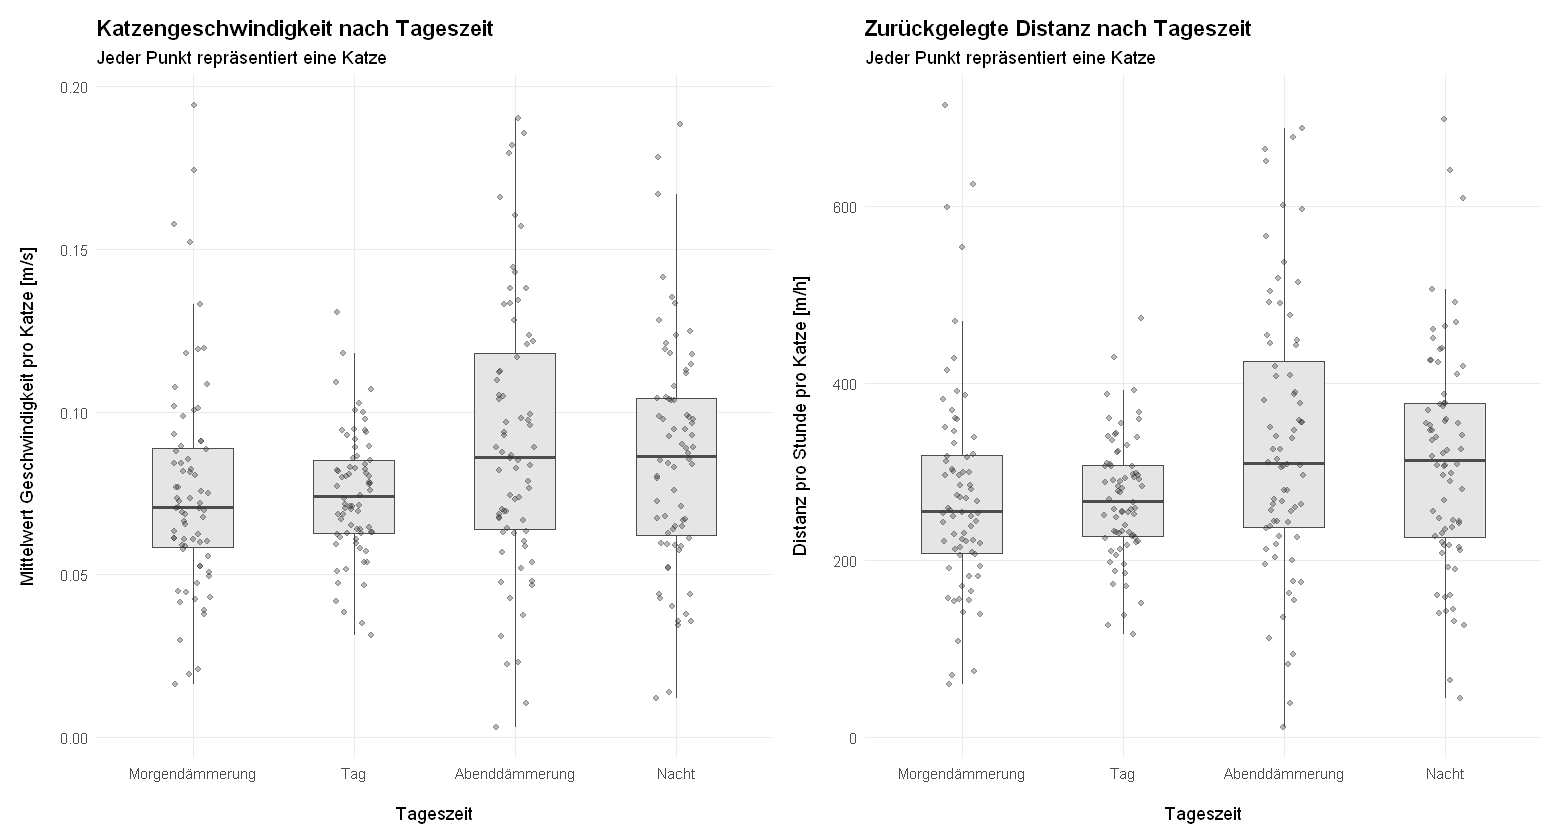
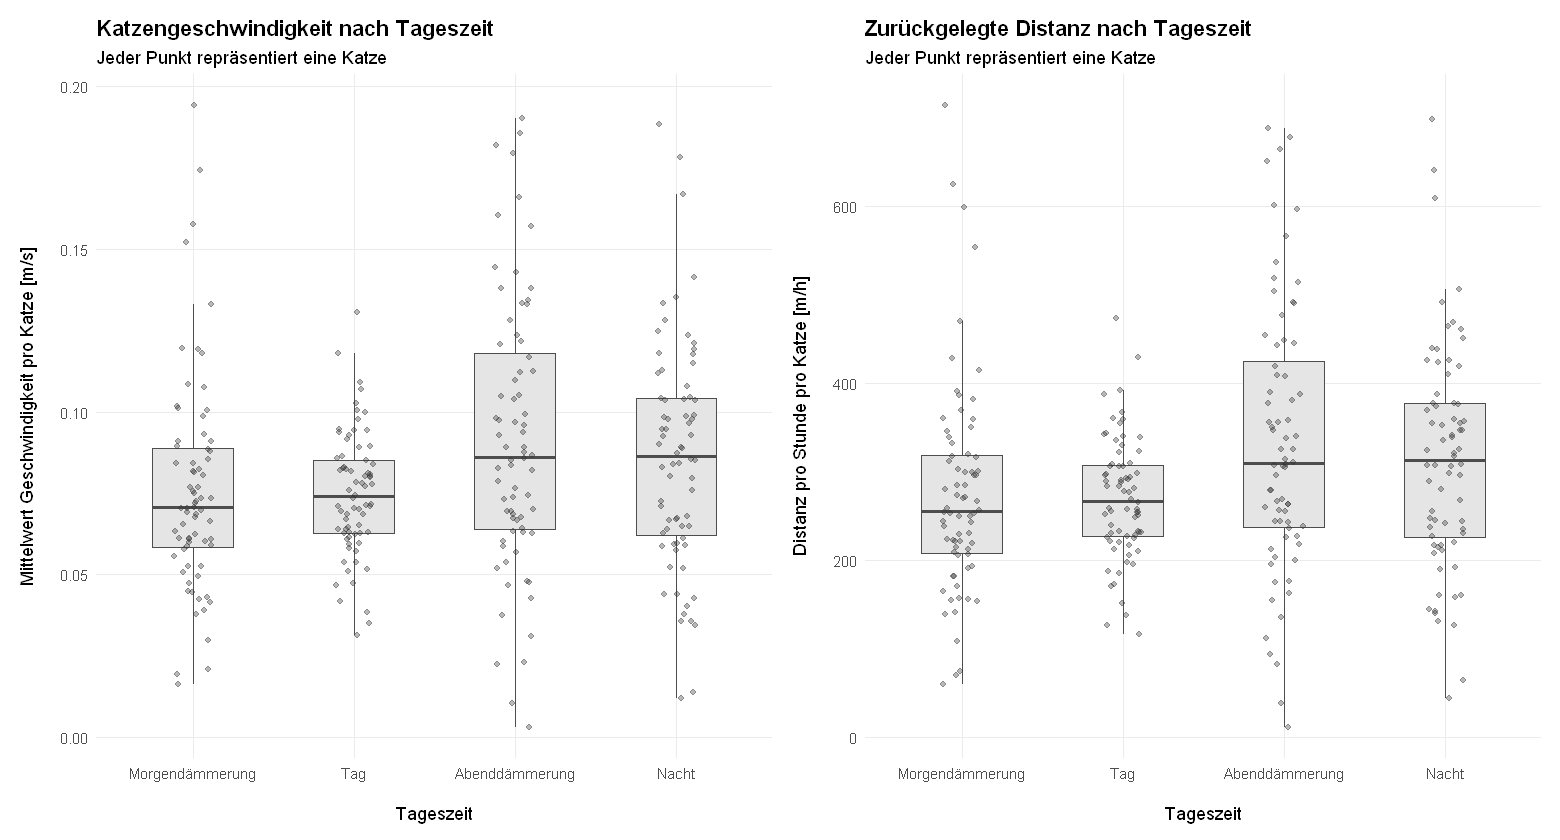
update

diff --git a/Semesterproject_final.html b/Semesterproject_final.html
@@ -1136,8 +1136,8 @@ pre > code.sourceCode > span > a:first-child::before { text-decoration: underlin
 <h1 data-number="4"><span class="header-section-number">4</span> Resultate</h1>
 <section id="aktivitätsmuster-1" class="level2" data-number="4.1">
 <h2 data-number="4.1" class="anchored" data-anchor-id="aktivitätsmuster-1"><span class="header-section-number">4.1</span> Aktivitätsmuster</h2>
-<p>Die Analyse der Geschwindigkeit und zurückgelegten Distanz als Proxy für die Aktivität zeigt Unterschiede zwischen den Tageszeiten. Auf Basis der katzenspezifischen Mittelwerte waren die untersuchten Katzen während der Nacht und der Abenddämmerung am aktivsten (Abb. 1). Die höchsten mittleren Geschwindigkeiten waren nachts (0.087 m/s) und während der Abenddämmerung (0.086 m/s), während sie tagsüber bei 0.074 m/s und in der Morgendämmerung bei 0.071 m/s lagen. Ein vergleichbares Muster zeigt sich bei der zurückgelegten Distanz pro Stunde (Nacht: 313 m/h, Abenddämmerung: 310 m/h, Tag: 267 m/h, Morgendämmerung: 255 m/h). Gleichzeitig zeigt sich eine hohe individuelle Variabilität zwischen den Katzen (siehe Abb. 1).</p>
-<div id="c2e35cae-9110-4efb-81cb-f71bff7dcaa2" class="cell" data-execution_count="24">
+<p>Die Analyse der Geschwindigkeit und zurückgelegten Distanz als Proxy für die Aktivität zeigt Unterschiede zwischen den Tageszeiten. Auf Basis der katzenspezifischen Mittelwerte waren die untersuchten Katzen während der Nacht und der Abenddämmerung am aktivsten (siehe <a href="#fig-plot1" class="quarto-xref">Abbildung&nbsp;1</a>). Die höchsten mittleren Geschwindigkeiten waren nachts (0.087 m/s) und während der Abenddämmerung (0.086 m/s), während sie tagsüber bei 0.074 m/s und in der Morgendämmerung bei 0.071 m/s lagen. Ein vergleichbares Muster zeigt sich bei der zurückgelegten Distanz pro Stunde (Nacht: 313 m/h, Abenddämmerung: 310 m/h, Tag: 267 m/h, Morgendämmerung: 255 m/h). Gleichzeitig zeigt sich eine hohe individuelle Variabilität zwischen den Katzen (<a href="#fig-plot1" class="quarto-xref">Abbildung&nbsp;1</a>).</p>
+<div id="c2e35cae-9110-4efb-81cb-f71bff7dcaa2" class="cell" data-execution_count="70">
 <details class="code-fold">
 <summary>Code</summary>
 <div class="code-copy-outer-scaffold"><div class="sourceCode cell-code" id="cb8"><pre class="sourceCode r code-with-copy"><code class="sourceCode r"><span id="cb8-1"><a href="#cb8-1" aria-hidden="true" tabindex="-1"></a><span class="do">###############################</span></span>
@@ -1276,7 +1276,7 @@ pre > code.sourceCode > span > a:first-child::before { text-decoration: underlin
 <span id="cb8-134"><a href="#cb8-134" aria-hidden="true" tabindex="-1"></a><span class="co"># boxplot_distance</span></span></code></pre></div><button title="In die Zwischenablage kopieren" class="code-copy-button"><i class="bi"></i></button></div>
 </details>
 </div>
-<div id="cell-fig-plot1" class="cell" data-execution_count="45">
+<div id="cell-fig-plot1" class="cell" data-execution_count="71">
 <details class="code-fold">
 <summary>Code</summary>
 <div class="code-copy-outer-scaffold"><div class="sourceCode cell-code" id="cb9"><pre class="sourceCode r code-with-copy"><code class="sourceCode r"><span id="cb9-1"><a href="#cb9-1" aria-hidden="true" tabindex="-1"></a><span class="fu">options</span>(<span class="at">repr.plot.width =</span> <span class="dv">13</span>, <span class="at">repr.plot.height =</span> <span class="dv">7</span>)</span>
@@ -1300,7 +1300,7 @@ Abbildung&nbsp;1: Tageszeitliche Aktivitätsmuster der Katzen (links: Mittelwert
 </section>
 <section id="home-ranges-1" class="level2" data-number="4.2">
 <h2 data-number="4.2" class="anchored" data-anchor-id="home-ranges-1"><span class="header-section-number">4.2</span> Home Ranges</h2>
-<p>Die Ergebnisse zeigen deutliche Unterschiede in der Grösse der Home Ranges (KDE 95%) zwischen den untersuchten Katzen (Min. 0.2 ha, Median 1.5 ha, Max. 377 ha). Die Sensitivitätsanalyse mit der 80 %-KDE führte erwartungsgemäss zu kleineren Flächenwerten, bestätigte jedoch die grundsätzlichen Muster der Analyse (siehe Abb. 2).</p>
+<p>Die Ergebnisse zeigen deutliche Unterschiede in der Grösse der Home Ranges (KDE 95%) zwischen den untersuchten Katzen (Min. 0.2 ha, Median 1.5 ha, Max. 377 ha). Die Sensitivitätsanalyse mit der 80 %-KDE führte erwartungsgemäss zu kleineren Flächenwerten, bestätigte jedoch die grundsätzlichen Muster der Analyse (siehe <a href="#fig-plot2" class="quarto-xref">Abbildung&nbsp;2</a>).</p>
 <div id="e0bb4b82-b426-4b05-89fc-1378df011f36" class="cell" data-execution_count="37">
 <details class="code-fold">
 <summary>Code</summary>
@@ -1348,7 +1348,7 @@ Abbildung&nbsp;2: Kernel-Density-basierte Home-Range-Schätzung der 92 Katzen. L
 </div>
 </div>
 </div>
-<p>Die Verteilung der Flächengrössen war stark rechtsschief. Wie in Abb. 3 sichtbar, ist dies auf wenige Individuen mit aussergewöhnlich grossen Home Ranges zurückzuführen.</p>
+<p>Die Verteilung der Flächengrössen war stark rechtsschief. Wie in <a href="#fig-plot3" class="quarto-xref">Abbildung&nbsp;3</a> sichtbar, ist dies auf wenige Individuen mit aussergewöhnlich grossen Home Ranges zurückzuführen. sichtbar, ist dies auf wenige Individuen mit aussergewöhnlich grossen Home Ranges zurückzuführen.</p>
 <div id="df6d7901-5e28-48a9-b71c-5a5b3efe13d1" class="cell" data-execution_count="43">
 <details class="code-fold">
 <summary>Code</summary>
@@ -1492,7 +1492,7 @@ Abbildung&nbsp;3: Häufigkeit der Katzen für verschiedene Kategorien der Gröss
 </div>
 </div>
 </div>
-<p>Der Vergleich zwischen urbanen und ländlichen Katzen deutet darauf hin, dass ländliche Katzen tendenziell grössere Home Ranges und eine stärkere Variabilität aufweisen als urbane Katzen. Urbane Katzen nutzten dagegen kleinere und räumlich stärker konzentrierte Gebiete (Abb. 4).</p>
+<p>Der Vergleich zwischen urbanen und ländlichen Katzen deutet darauf hin, dass ländliche Katzen tendenziell grössere Home Ranges und eine stärkere Variabilität aufweisen als urbane Katzen. Urbane Katzen nutzten dagegen kleinere und räumlich stärker konzentrierte Gebiete (siehe <a href="#fig-plot4" class="quarto-xref">Abbildung&nbsp;4</a>).</p>
 <div id="1d398c75-bdb4-4e2e-9b79-f31fd875579e" class="cell" data-execution_count="54">
 <details class="code-fold">
 <summary>Code</summary>
@@ -1610,7 +1610,7 @@ Abbildung&nbsp;4: Vergleich der Home-Range-Grössen zwischen urbanen und ländli
 </section>
 <section id="begegnungen-1" class="level2" data-number="4.3">
 <h2 data-number="4.3" class="anchored" data-anchor-id="begegnungen-1"><span class="header-section-number">4.3</span> Begegnungen</h2>
-<p>Die Analyse identifiziert mehrere Begegnungen zwischen Katzenpaaren. Die Häufigkeit dieser Ereignisse variiert stark zwischen den Individuen. Zeitlich traten Begegnungen besonders häufig in der Nacht sowie am Morgen und späten Abend auf, während in den frühen Morgenstunden weniger Begegnungen registriert wurden (Abb. 5).</p>
+<p>Die Analyse identifiziert mehrere Begegnungen zwischen Katzenpaaren. Die Häufigkeit dieser Ereignisse variiert stark zwischen den Individuen. Zeitlich traten Begegnungen besonders häufig in der Nacht sowie am Morgen und späten Abend auf, während in den frühen Morgenstunden weniger Begegnungen registriert wurden (siehe <a href="#fig-plot5" class="quarto-xref">Abbildung&nbsp;5</a>).</p>
 <div id="cbb33590-eea7-4391-8eca-25acc11e1662" class="cell" data-execution_count="57">
 <details class="code-fold">
 <summary>Code</summary>
@@ -1741,7 +1741,7 @@ Abbildung&nbsp;5: Darstellung der Häufigkeit von „Begegnungen“ von Katzen (
 </div>
 </div>
 </div>
-<p>Die räumliche Analyse zeigt zudem, dass die Anzahl der Begegnungen mit zunehmender Überlappung zunächst ansteigt, jedoch bei mittlerer Überlappung von 3 Home Ranges ein Maximum erreicht und ab 4 Überlappungen wieder abnimmt. (Siehe Abb. 6, rechts) Insgesamt deuten die Ergebnisse darauf hin, dass räumliche Nähe und gemeinsame Raumnutzung die Wahrscheinlichkeit von Begegnungen erhöhen, die Verteilung der Begegnungen jedoch stark heterogen über die Katzenpaare ist (siehe Abb. 6, links).</p>
+<p>Die räumliche Analyse zeigt zudem, dass die Anzahl der Begegnungen mit zunehmender Überlappung zunächst ansteigt, jedoch bei mittlerer Überlappung von 3 Home Ranges ein Maximum erreicht und ab 4 Überlappungen wieder abnimmt (siehe <a href="#fig-plot6" class="quarto-xref">Abbildung&nbsp;6</a>, rechts). Insgesamt deuten die Ergebnisse darauf hin, dass räumliche Nähe und gemeinsame Raumnutzung die Wahrscheinlichkeit von Begegnungen erhöhen, die Verteilung der Begegnungen jedoch stark heterogen über die Katzenpaare ist (siehe <a href="#fig-plot6" class="quarto-xref">Abbildung&nbsp;6</a>, links).</p>
 <div id="49b53d1d-b8b3-4ba3-9e0c-927a754c1256" class="cell" data-execution_count="63">
 <details class="code-fold">
 <summary>Code</summary>